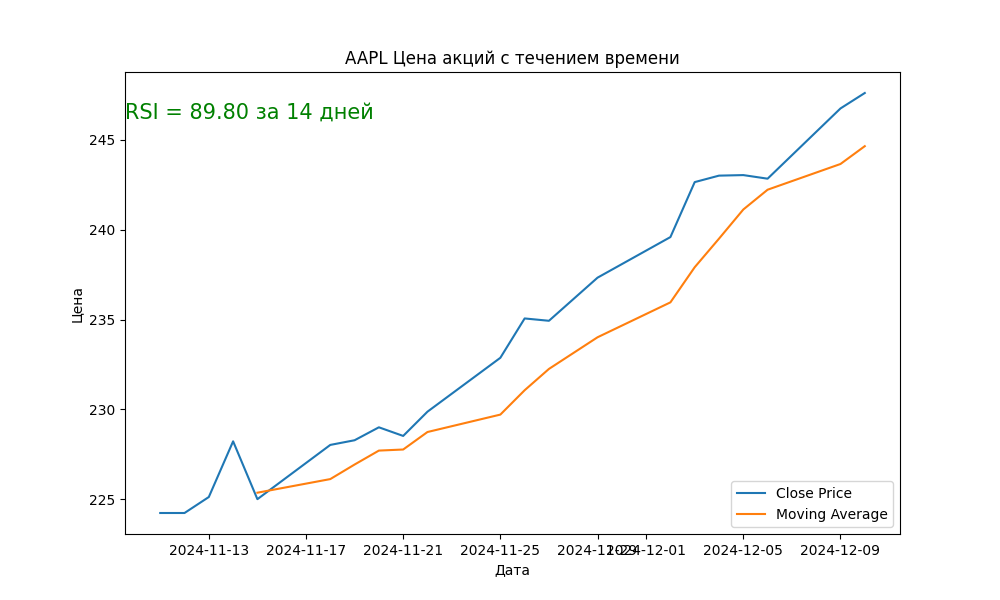
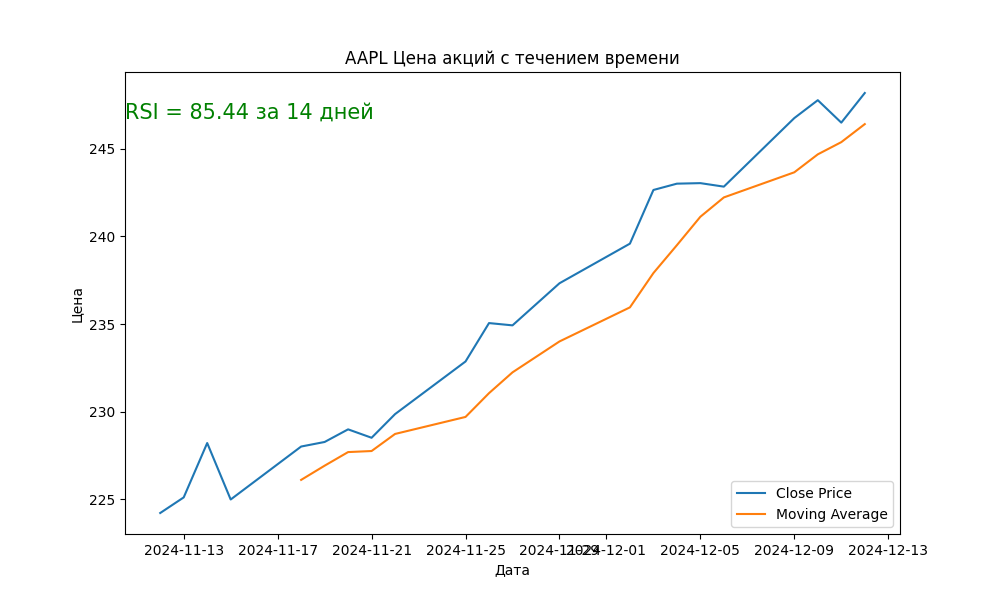
Добавлена возможность выбора стияля графика

diff --git a/data_plotting.py b/data_plotting.py
@@ -1,13 +1,14 @@
 import matplotlib.pyplot as plt
 import pandas as pd
-
+from matplotlib import style
 import data_download as dd
 
 
-def create_and_save_plot(data, ticker, period, filename=None):
+def create_and_save_plot(data, ticker, period, style_name, filename=None):
     '''
     Создаёт график, отображающий цены закрытия и скользящие средние. Предоставляет возможность сохранения графика в файл.
     Параметр filename опционален; если он не указан, имя файла генерируется автоматически.
+    :param style_name: Стиль рисования графика
     :param data: DataFrame
     :param ticker: Акция
     :param period: Период определения
@@ -15,7 +16,7 @@ def create_and_save_plot(data, ticker, period, filename=None):
     :return:
     '''
     plt.figure(figsize=(10, 6))
-
+    plt.style.use(style_name)
     if 'Date' not in data:
         if pd.api.types.is_datetime64_any_dtype(data.index):
             dates = data.index.to_numpy()
@@ -34,6 +35,7 @@ def create_and_save_plot(data, ticker, period, filename=None):
 
     plt.text(x=0, y=0.9, s=f'RSI = {dd.indicator_rsi(data):.2f} за 14 дней', fontsize=15, color='green',
              transform=plt.gca().transAxes)
+
     plt.xlabel("Дата")
     plt.ylabel("Цена")
     plt.legend()
@@ -43,3 +45,6 @@ def create_and_save_plot(data, ticker, period, filename=None):
 
     plt.savefig(filename)
     print(f"График сохранен как {filename}")
+
+
+print(plt.style.available)

diff --git a/main.py b/main.py
@@ -1,6 +1,8 @@
+from pprint import pprint
+
 import data_download as dd
 import data_plotting as dplt
-
+import matplotlib.pyplot as plt
 
 def main():
     print("Добро пожаловать в инструмент получения и построения графиков биржевых данных.")
@@ -13,13 +15,15 @@ def main():
     period = input("Введите период для данных (например, '1mo' для одного месяца или период начала измерения и оканчание 'YYYY-MM-DD YYYY-MM-DD'): ")
     threshold = int(input('Введите порог превышения разницы цены закрытия: '))
     file_name_csv = input('Введите имя файла для сохранения данных в формате CSV: ')
+    pprint(plt.style.available)
+    style = input('Введите стиль графика: ')
     # Fetch stock data
     stock_data = dd.fetch_stock_data(ticker, period)
 
     # Add moving average to the data
     stock_data = dd.add_moving_average(stock_data)
     # Plot the data
-    dplt.create_and_save_plot(stock_data, ticker, period)
+    dplt.create_and_save_plot(stock_data, ticker, period, style_name=style)
     dd.calculate_and_display_average_price(stock_data)
     dd.notify_if_strong_fluctuations(stock_data, threshold)
     dd.export_data_to_csv(stock_data, file_name_csv)
